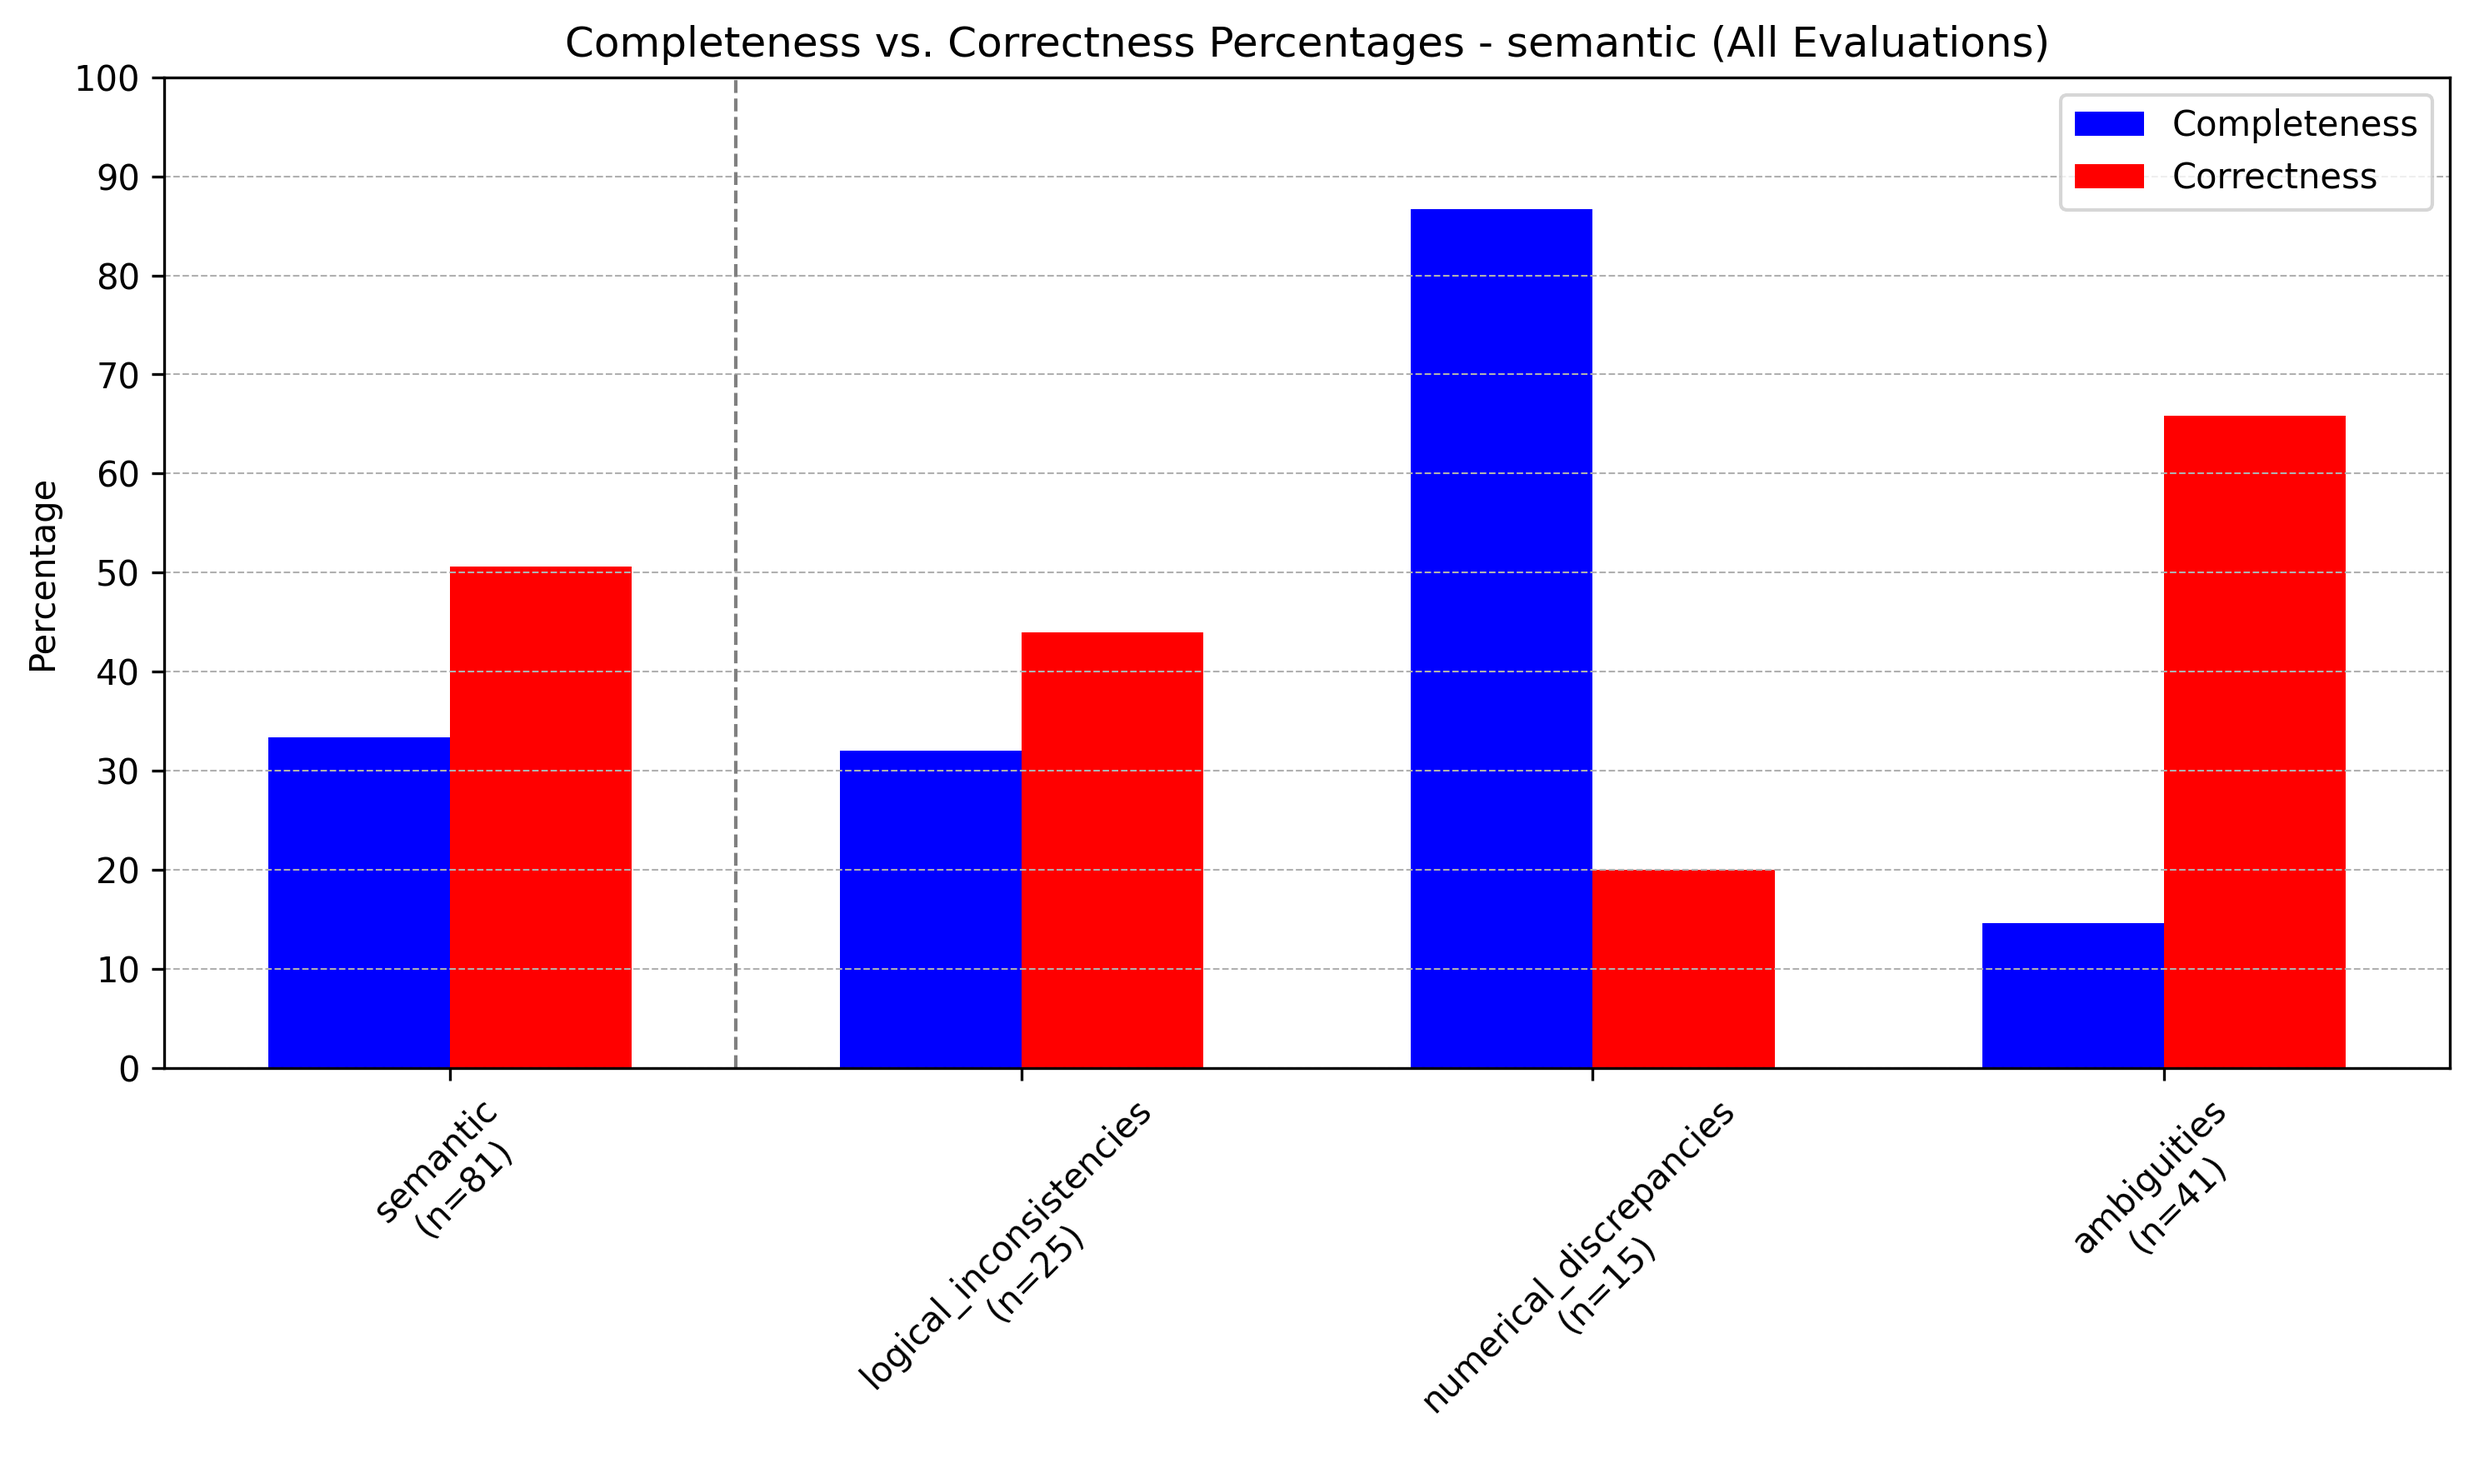
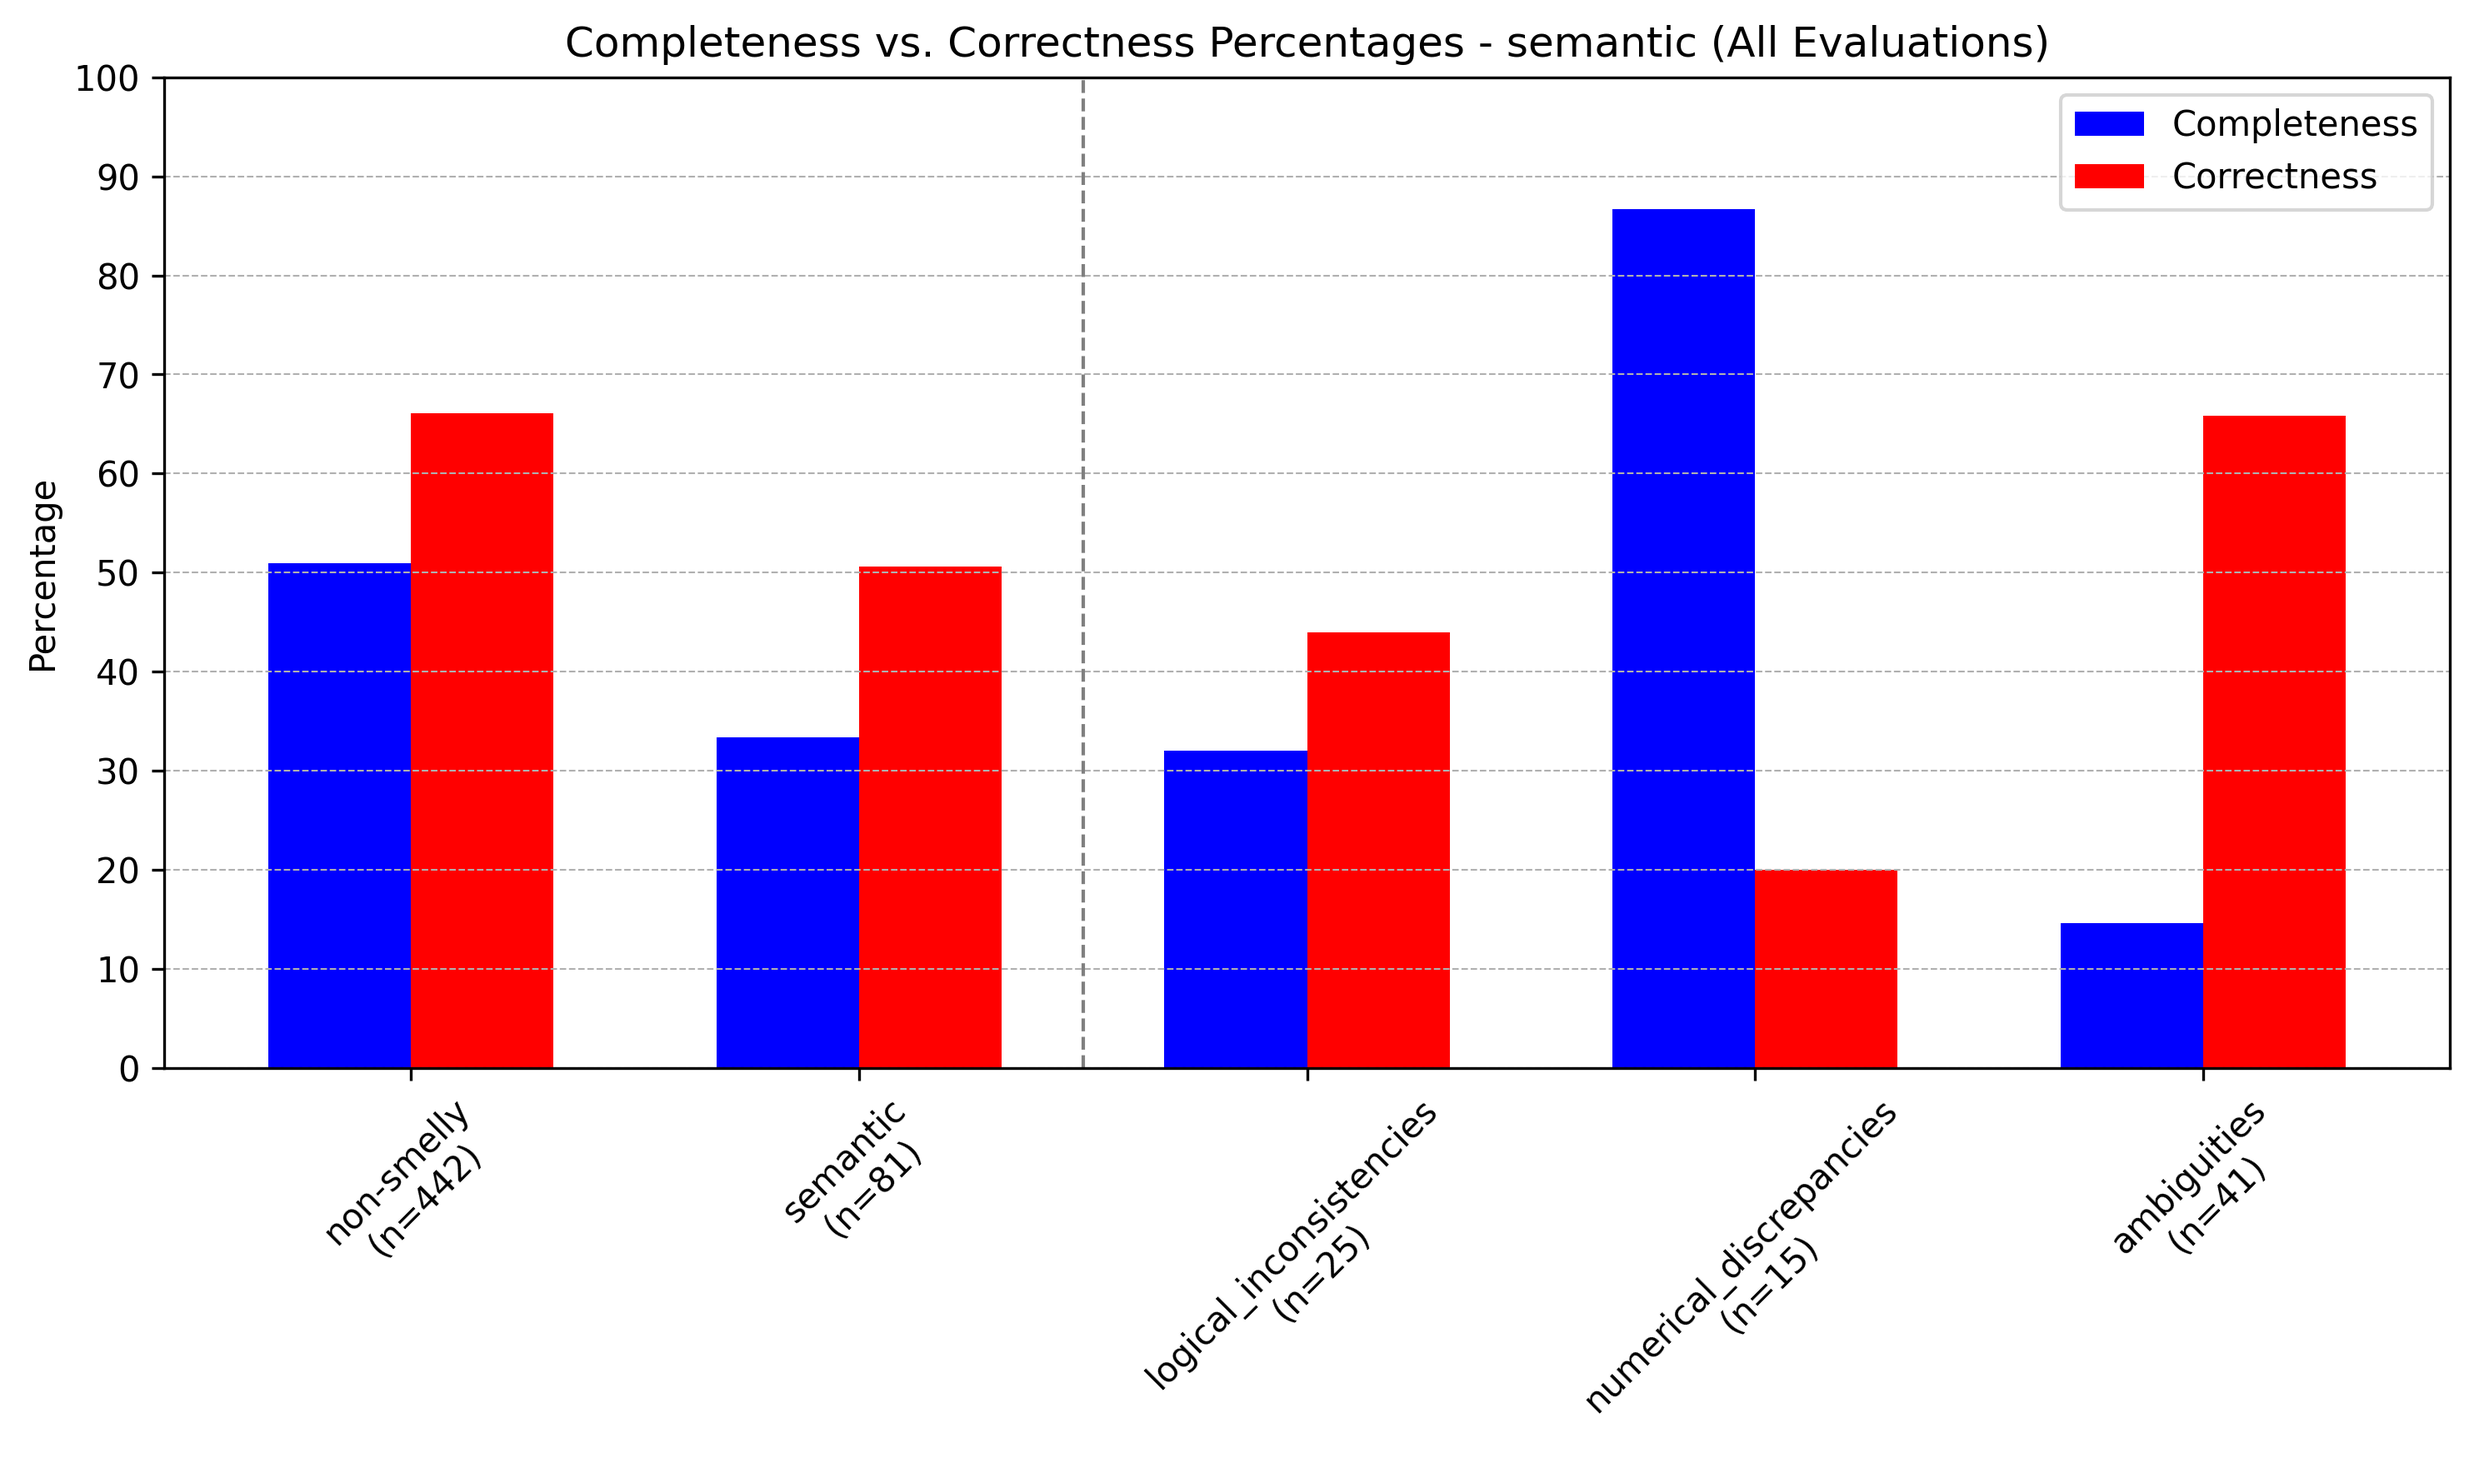
non-smelly scores added to RQ3 sub smell type diagrams, as a success criteria.

diff --git a/evaluation_analysis/rq3_diagram_generators.py b/evaluation_analysis/rq3_diagram_generators.py
@@ -202,7 +202,7 @@ def create_smell_sub_type_based_score_percentages(scores_dict, file_name, contex
     # Create one diagram per smell type
     for smell_type, subtypes in scores_dict.items():
         if smell_type in ['lexical', 'semantic', 'syntactic']:
-            labels, comp_values, corr_values, smell_counts = calculate_percentages(smell_type, subtypes)
+            labels, comp_values, corr_values, smell_counts = calculate_percentages(smell_type, subtypes, scores_dict['non-smelly'])
 
             if context:
                 chart_title = f'Completeness vs. Correctness Percentages - {smell_type} ({context})'
@@ -237,7 +237,7 @@ def create_smell_sub_type_based_score_percentages(scores_dict, file_name, contex
             ax.legend()
 
             # Vertical separator after '<smell_type>'
-            separator_x = group_centers[0] + bar_width + group_spacing / 2
+            separator_x = group_centers[1] + bar_width + group_spacing / 2
             ax.axvline(separator_x, color='gray', linestyle='--', linewidth=1)
 
             # Optional: Horizontal grid
@@ -249,7 +249,7 @@ def create_smell_sub_type_based_score_percentages(scores_dict, file_name, contex
             plt.savefig(f"evaluation_analysis/diagrams/rq3/{smell_type}_{file_name}", dpi=300, bbox_inches='tight')
 
 
-def calculate_percentages(smell_type, group_dict):
+def calculate_percentages(smell_type, group_dict, non_smelly_scores):
     labels = []
     smell_counts = []
     completeness = []
@@ -286,6 +286,12 @@ def calculate_percentages(smell_type, group_dict):
     smell_counts.insert(0, total_count)
     completeness.insert(0, avg_comp)
     correctness.insert(0, avg_corr)
+
+    # Inserting non-smelly bars to the very beginning as success criteria
+    labels.insert(0, 'non-smelly')
+    smell_counts.insert(0, non_smelly_scores['count'])
+    completeness.insert(0, non_smelly_scores['completeness'] / non_smelly_scores['count'] * 100)
+    correctness.insert(0, non_smelly_scores['correctness'] / non_smelly_scores['count'] * 100)
 
     return labels, completeness, correctness, smell_counts
 
